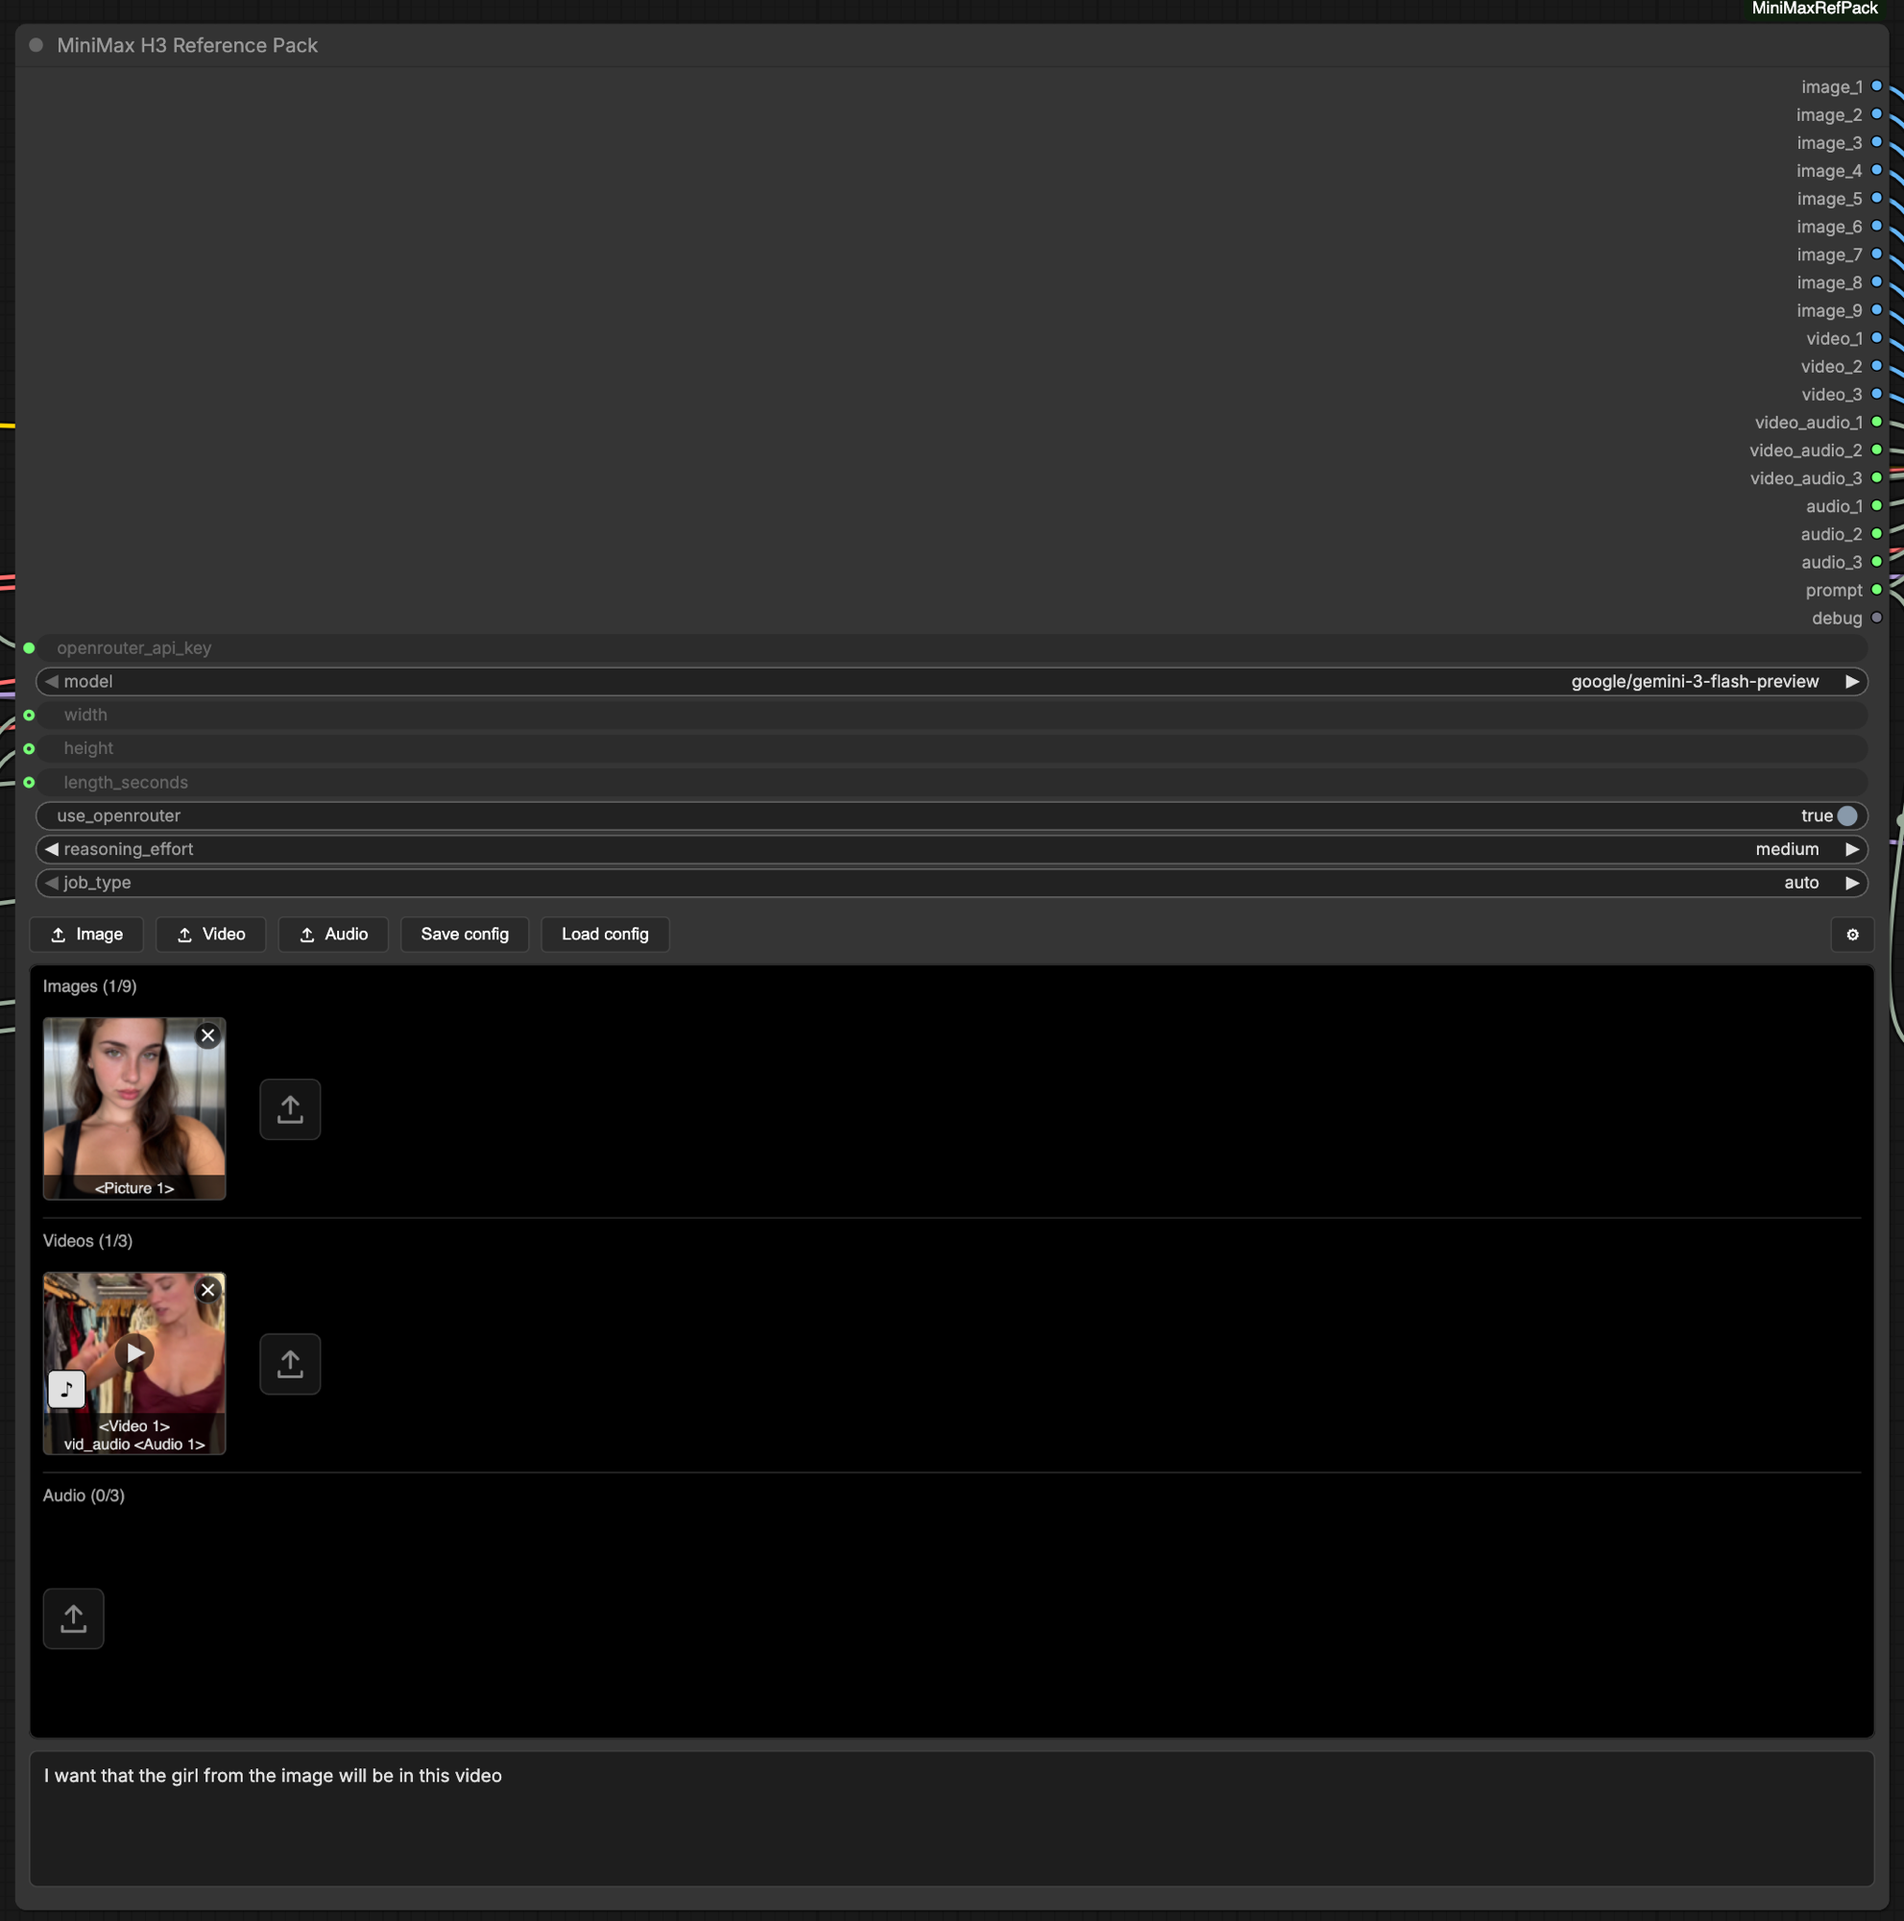
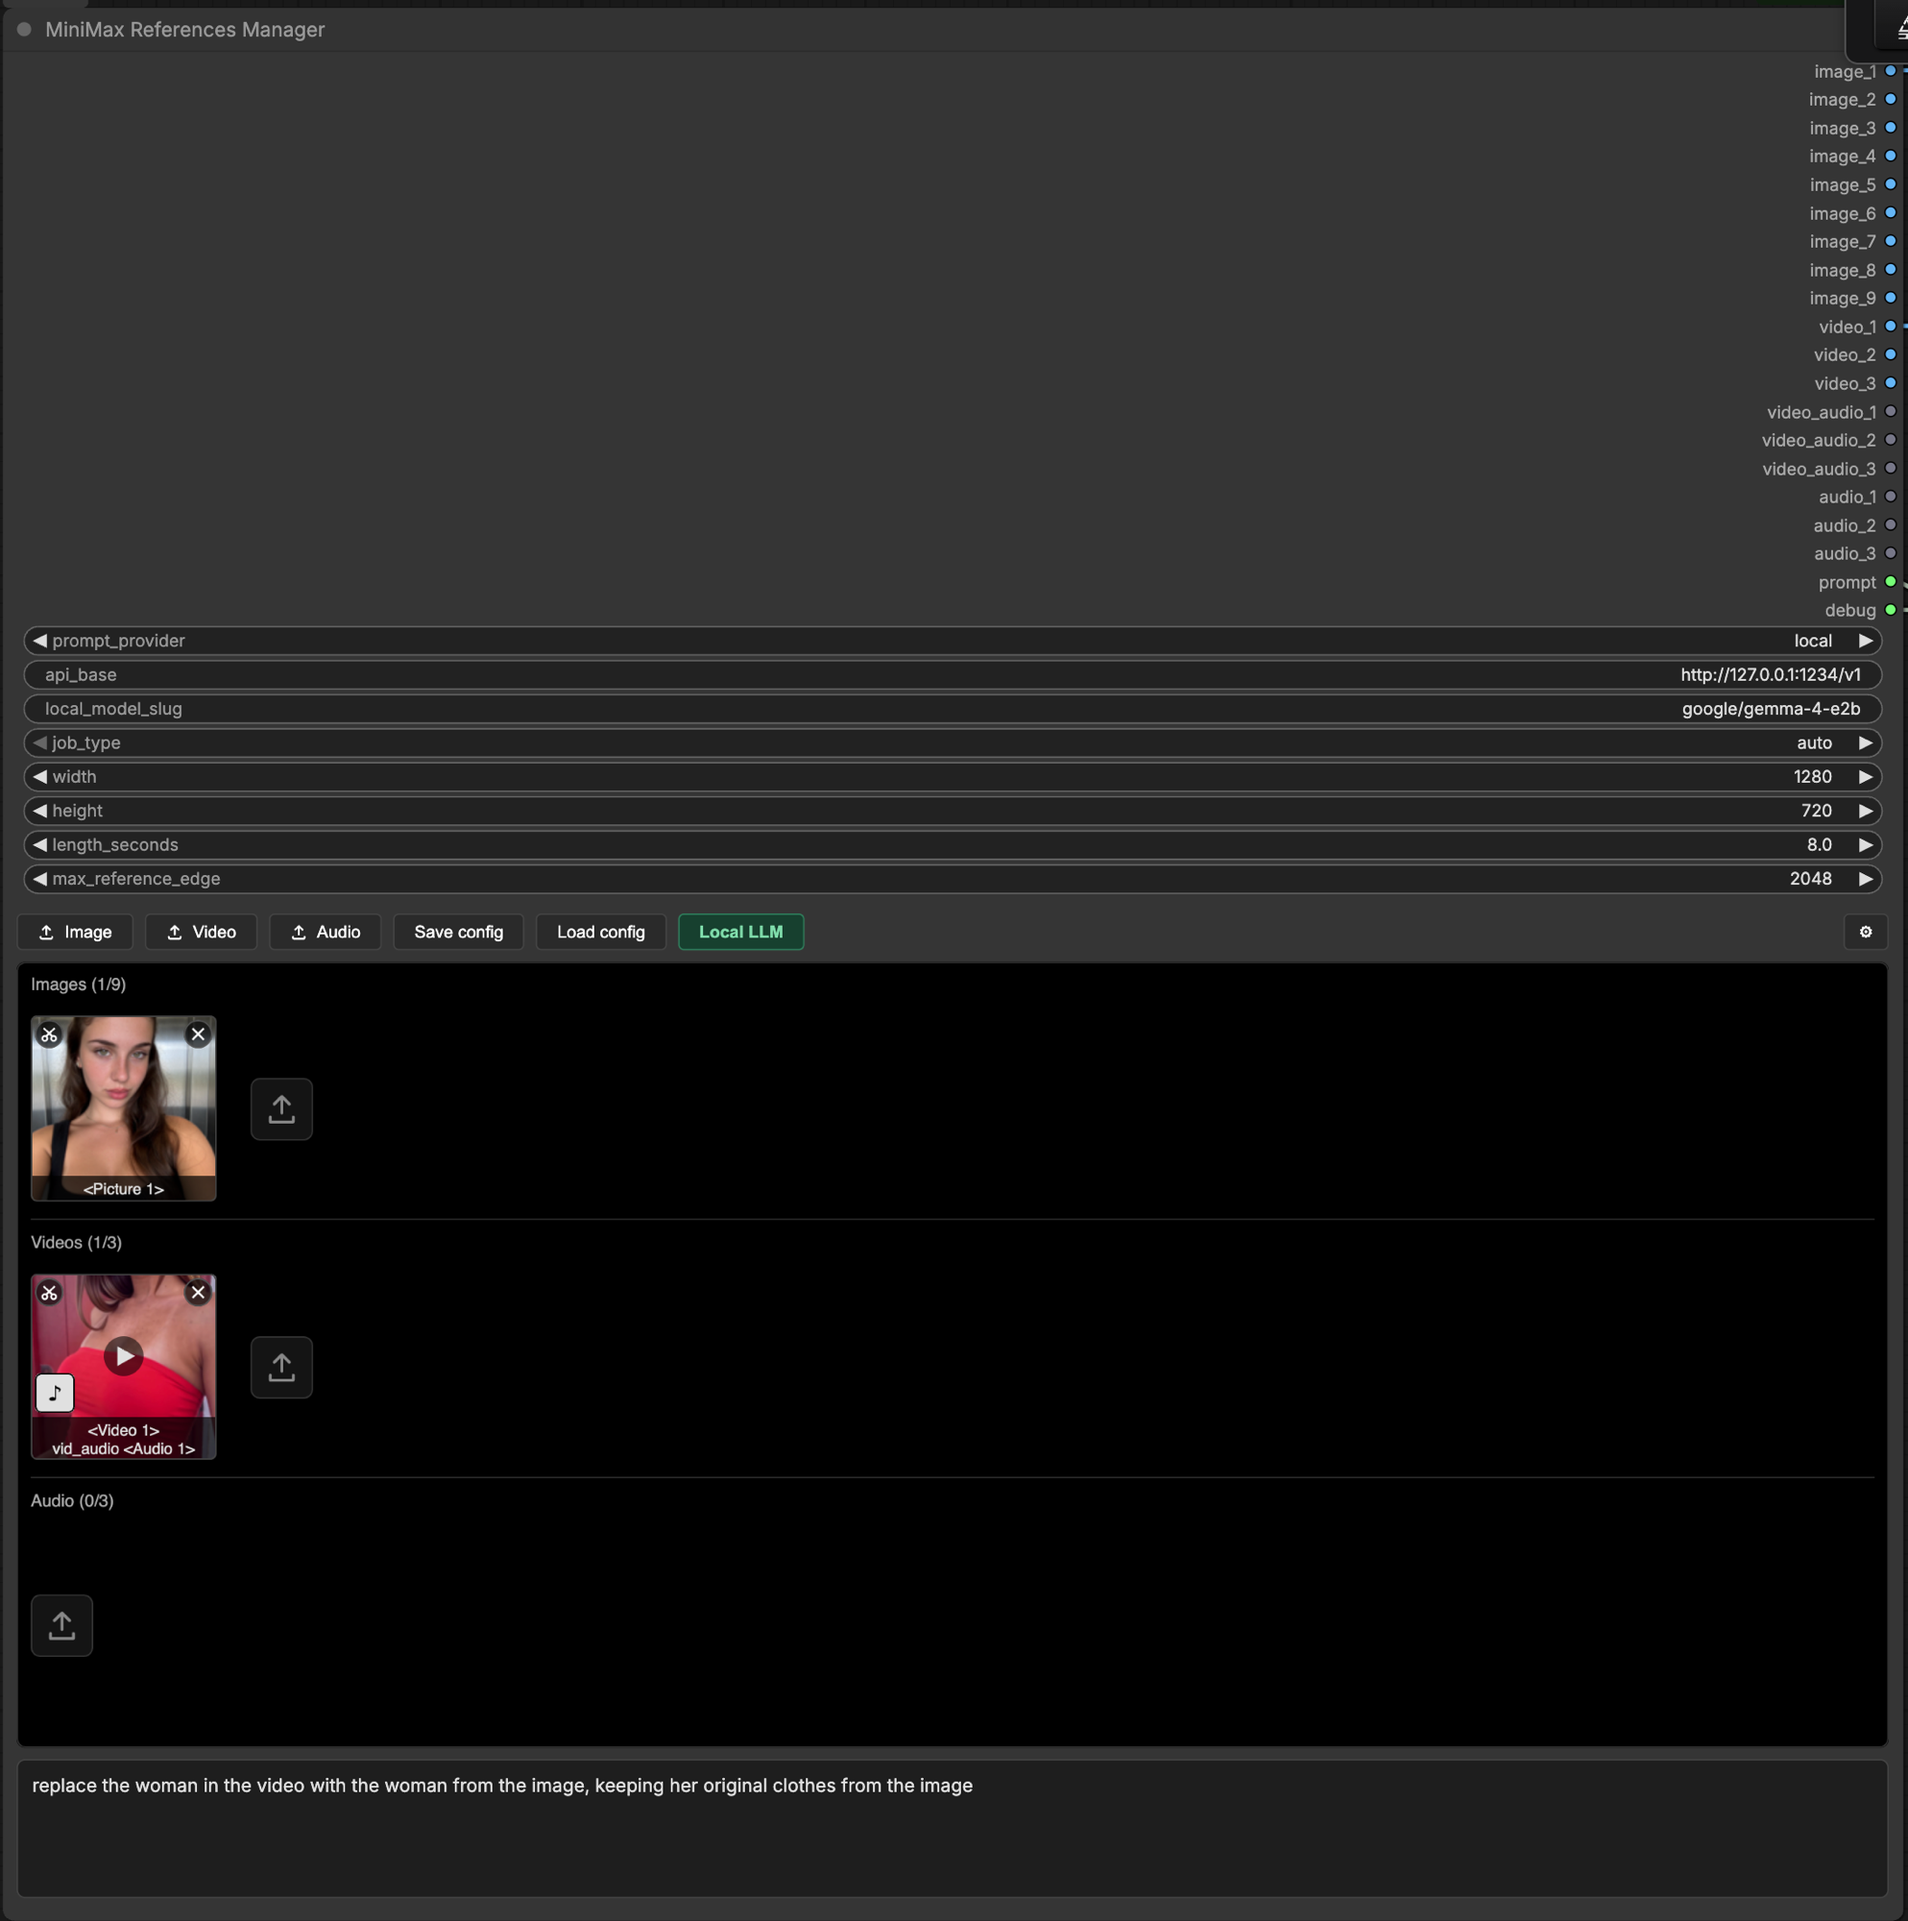
README: screenshot the node as it looks in 0.3.3
The old screenshot predated prompt_provider, so the image at the top of the
listing showed a node that no longer exists. The new one is running against a
local server, which puts the feature this release is about in the first thing
anyone sees.

Changed region(s): [[0.0, 0.0, 1.0, 1.0]]

diff --git a/README.md b/README.md
@@ -2,7 +2,7 @@
 
 One node that manages every reference for **MiniMax H3 Reference to Video**, writes the prompt for you, and saves the whole setup to a file you can carry between installs.
 
-![The MiniMax References Manager node](assets/node.png)
+![The MiniMax References Manager node, running against a local server](assets/node.png)
 
 ## Features
 
